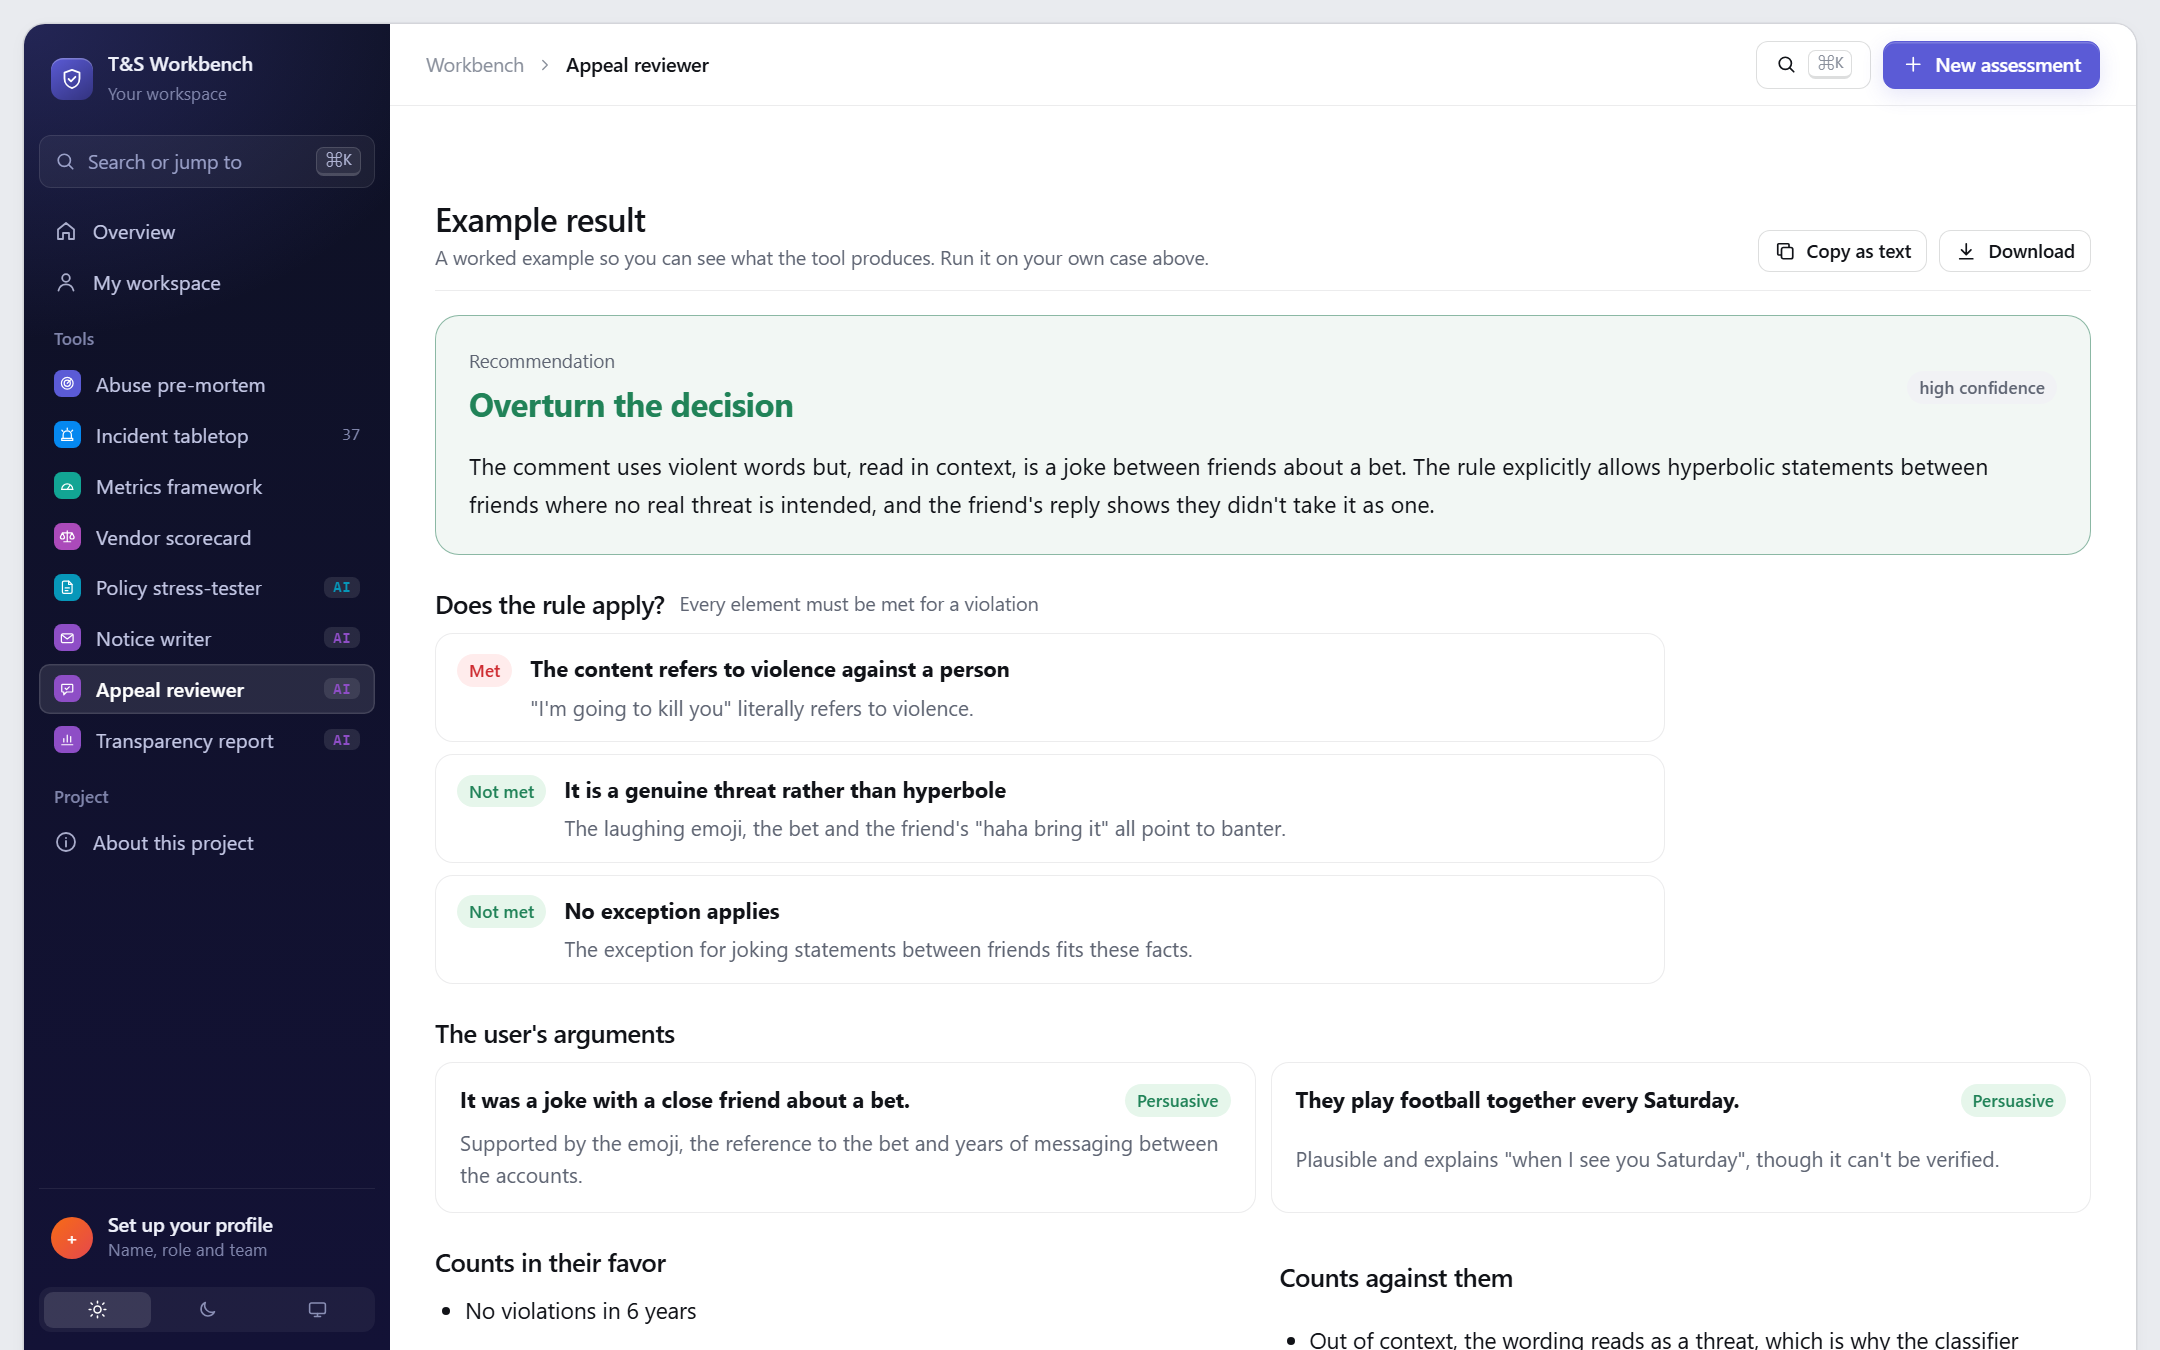
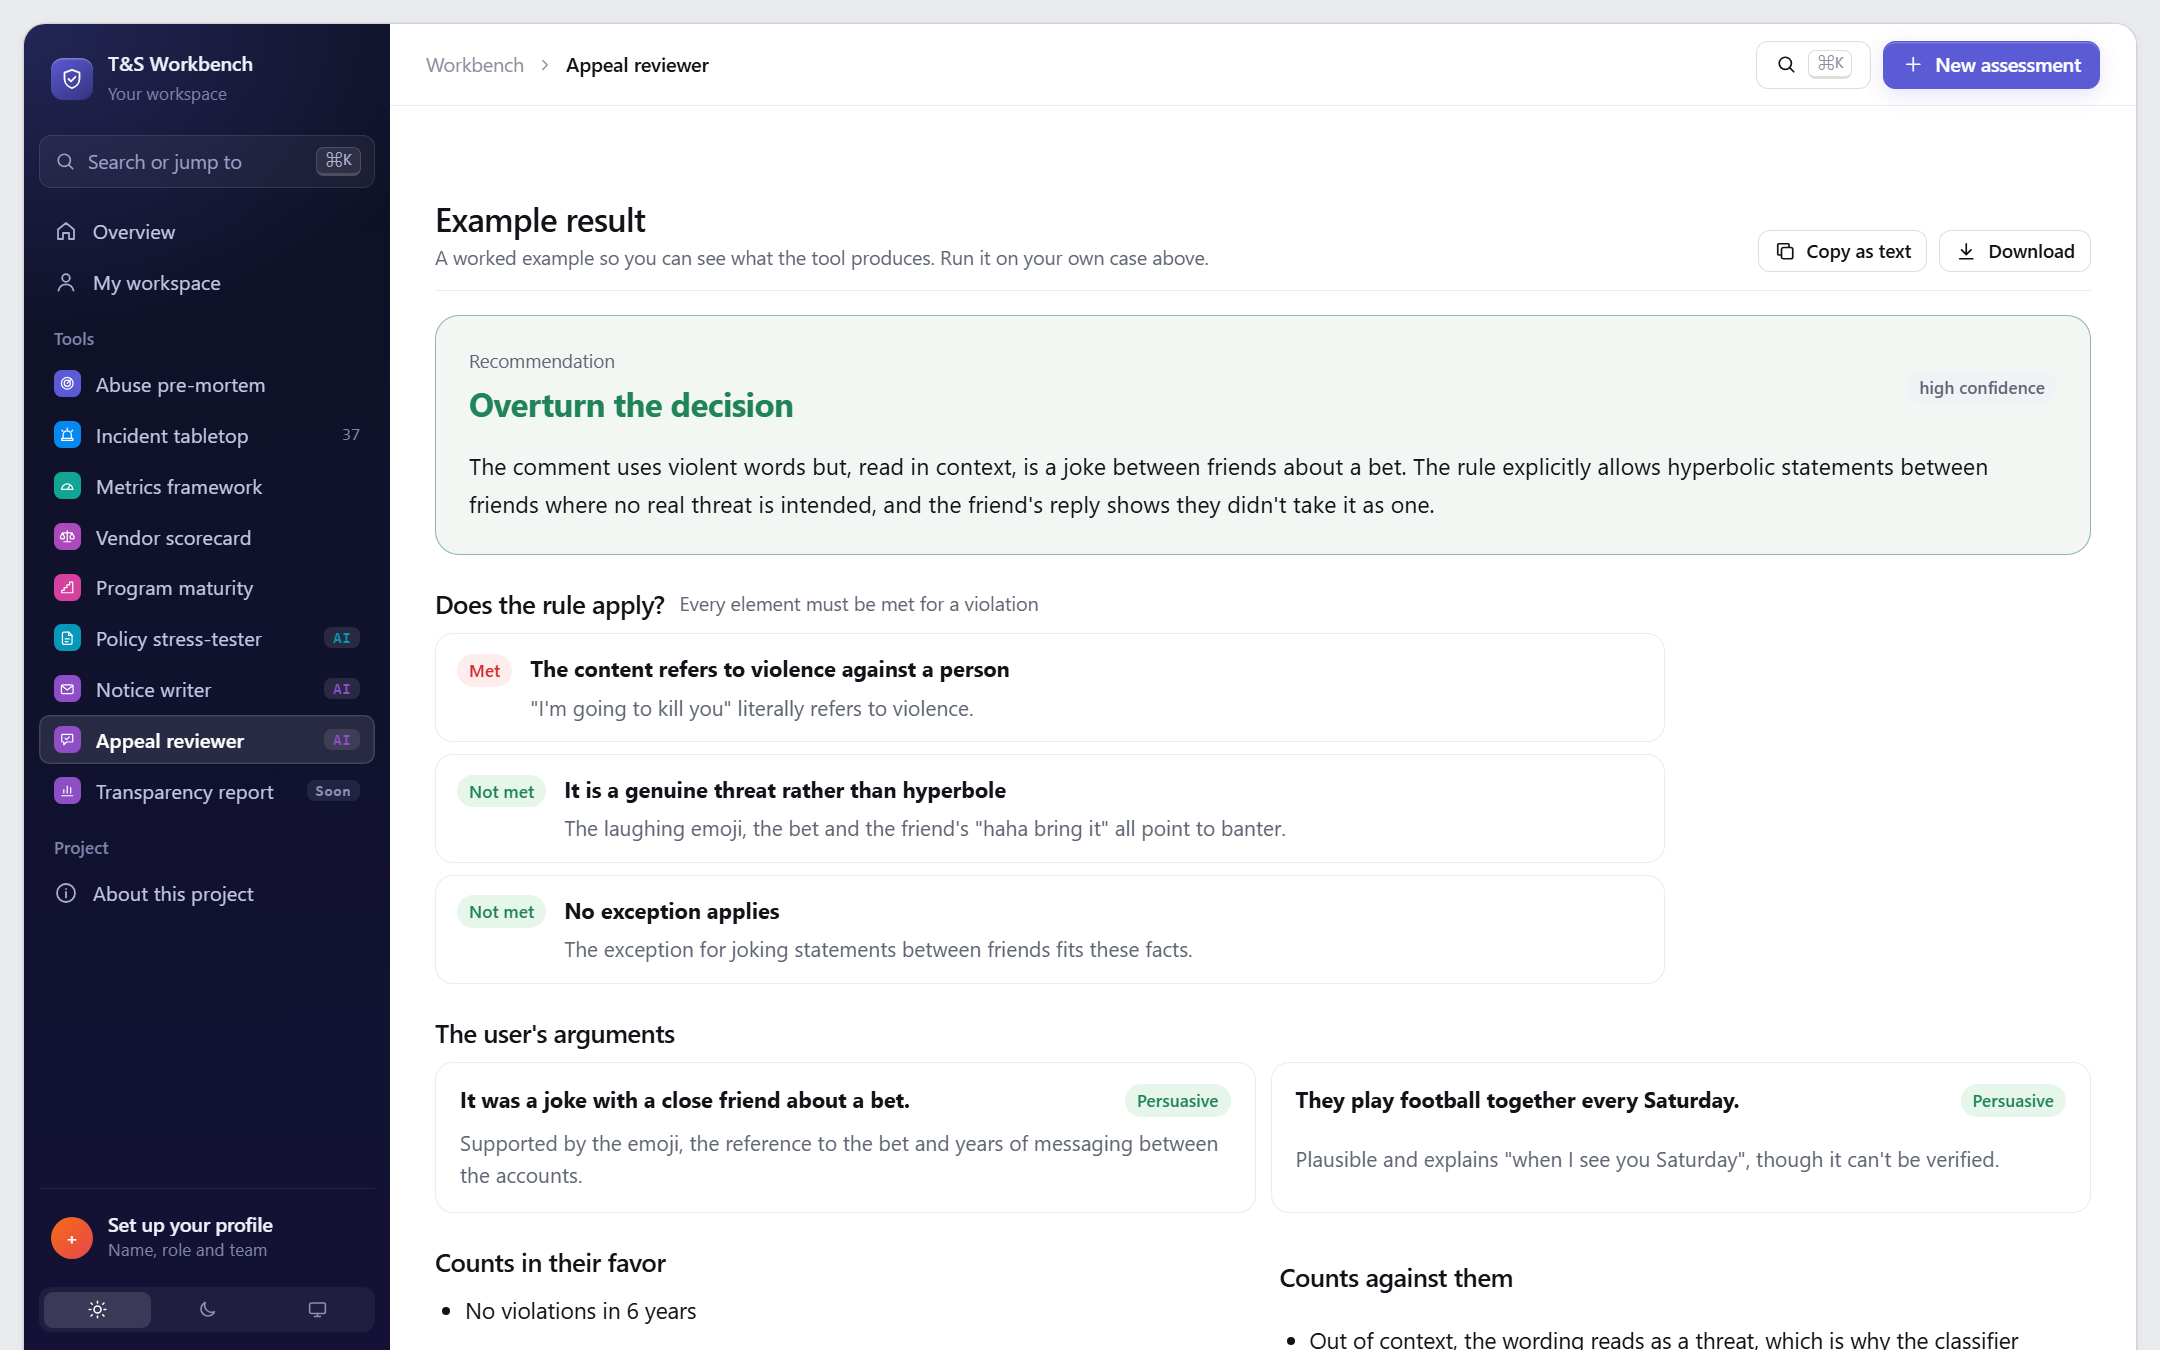
Add Program maturity assessment, mark transparency drafter as under construction, tidy policy layout

Changed region(s): [[0.0, 0.4356, 0.1551, 0.5911], [0.031, 0.6222, 0.1241, 0.6844]]

diff --git a/README.md b/README.md
@@ -2,9 +2,9 @@
 
 > **Can AI take the first pass on the writing-heavy parts of Trust & Safety work, safely?**
 
-Four assistants for policy and enforcement work: stress-test a rule, write an enforcement notice, get a second opinion on an appeal, and draft a transparency report. They run on the user's own Claude account, only when they click, and a person always makes the final call.
+Three assistants for policy and enforcement work: stress-test a rule, write an enforcement notice, and get a second opinion on an appeal. A fourth, a transparency report drafter, is under construction. They run on the user's own Claude account, only when they click, and a person always makes the final call.
 
-**[Policy stress-tester](https://stevenmacchia.github.io/ts-workbench/#policy)** · **[Enforcement notice writer](https://stevenmacchia.github.io/ts-workbench/#notice)** · **[Appeal reviewer](https://stevenmacchia.github.io/ts-workbench/#appeal)** · **[Transparency report drafter](https://stevenmacchia.github.io/ts-workbench/#transparency)** · part of [T&S Workbench](https://github.com/stevenmacchia/ts-workbench) · free, no sign-up
+**[Policy stress-tester](https://stevenmacchia.github.io/ts-workbench/#policy)** · **[Enforcement notice writer](https://stevenmacchia.github.io/ts-workbench/#notice)** · **[Appeal reviewer](https://stevenmacchia.github.io/ts-workbench/#appeal)** · part of [T&S Workbench](https://github.com/stevenmacchia/ts-workbench) · free, no sign-up
 
 ![T&S AI Assistants](assets/appeal.png)
 
@@ -27,19 +27,16 @@ The tool's knowledge, published as open content you can read, reuse and adapt.
 | [`prompts/policy-stress-tester.md`](prompts/policy-stress-tester.md) | Finds vague terms, gaps and eight hard edge cases, with a clearer rewrite |
 | [`prompts/enforcement-notice-writer.md`](prompts/enforcement-notice-writer.md) | Drafts a notice checked against what an EU statement of reasons must include |
 | [`prompts/appeal-reviewer.md`](prompts/appeal-reviewer.md) | Tests each element of the rule against the facts and weighs the user's arguments |
-| [`prompts/transparency-report-drafter.md`](prompts/transparency-report-drafter.md) | Turns enforcement numbers into report sections and lists what regulators would expect |
 
 ## Use it for
 
 - Policy launches and rewrites
 - Enforcement and appeals operations
-- Preparing DSA transparency reports
+- Writing notices that meet EU statement of reasons rules
 
 ## More screenshots
 
 ![notice](assets/notice.png)
-
-![transparency](assets/transparency.png)
 
 ![policy](assets/policy.png)
 
